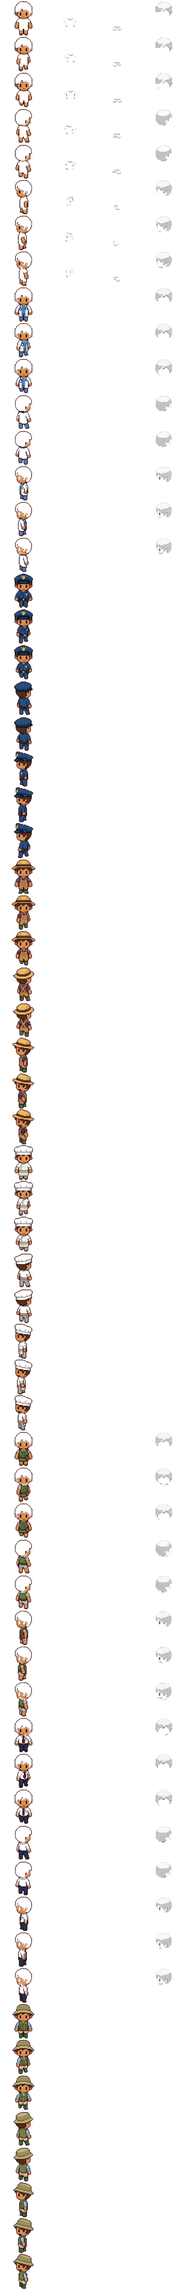
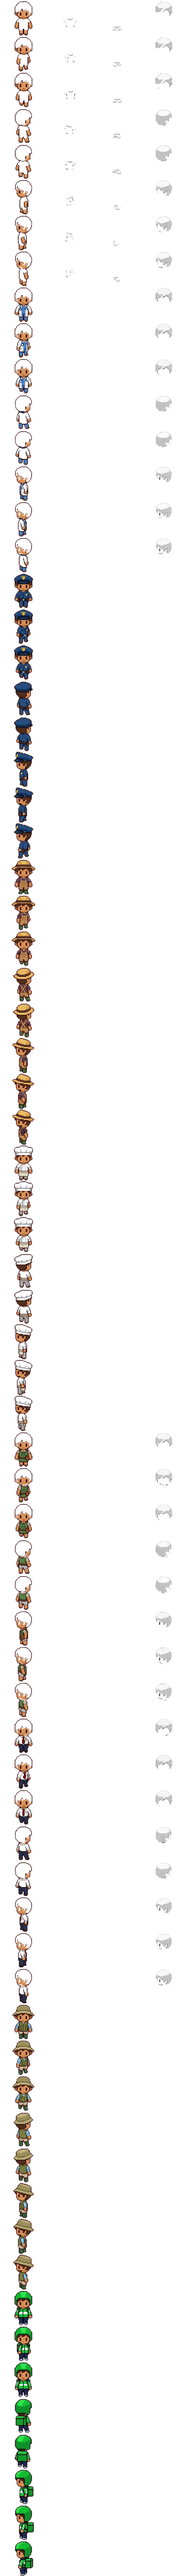
Rider outfit from the new pixel sheet; builder can mirror a cell
On this sheet some side cells face right and one front walk cell is three-quarter, so the
builder now accepts mirrored cells (negative index) and the rider uses straight front
frames and mirrored side frames that keep the delivery box behind.

Claude-Session: https://claude.ai/code/session_011vTRLcvJmqJKhBboYRSi88

Changed region(s): [[0.0595, 0.0, 0.1786, 1.0], [0.8333, 0.5625, 0.9226, 0.875], [0.8333, 0.0, 0.9226, 0.25]]

diff --git a/public/game.js b/public/game.js
@@ -64,7 +64,7 @@ function charFrame(frame, lk) {
   return c;
 }
 // draw one character with its feet at (fx, fy), k = scale per sprite pixel; view = front | side | back; step = walk step 0-3; faceLeft for the side view
-const CAREER_OUTFIT = { doctor: 'doctor', police: 'police', farmer: 'farmer', chef: 'chef', merchant: 'merchant', office: 'office', fisher: 'fisher' };
+const CAREER_OUTFIT = { doctor: 'doctor', police: 'police', farmer: 'farmer', chef: 'chef', merchant: 'merchant', office: 'office', fisher: 'fisher', rider: 'rider' };
 const WALK = { front: ['down0', 'down1', 'down0', 'down2'], back: ['up0', 'up1', 'up0', 'up1'], side: ['left0', 'left1', 'left0', 'left2'] };
 function drawCharTo(g, p, fx, fy, k, view, step, faceLeft) {
   // career outfits: doctors wear the white coat + scrubs sheet (only their hair colour is applied)

diff --git a/tools/build_pixel_chars.py b/tools/build_pixel_chars.py
@@ -20,9 +20,10 @@ SHEETS = {'base': ('tools/sheets/pixel_char.jpg', ('shirt', 'pants', 'hair')), '
           'chef': ('tools/sheets/pixel_chef.jpg', ()),
           'merchant': ('tools/sheets/pixel_merchant.jpg', ('hair',)),
           'office': ('tools/sheets/pixel_office.jpg', ('hair',)),
-          'fisher': ('tools/sheets/pixel_fisher.jpg', ())}
+          'fisher': ('tools/sheets/pixel_fisher.jpg', ()),
+          'rider': ('tools/sheets/pixel_rider.jpg', ())}
 # per-sheet frame overrides (some sheets put the poses in different cells)
-FRAME_FIX = {'police': {'left2': 6}, 'fisher': {'down2': 13}}
+FRAME_FIX = {'police': {'left2': 6}, 'fisher': {'down2': 13}, 'rider': {'down1': 10, 'down2': 15, 'left1': -7, 'left2': -17}}   # negative = use that cell mirrored
 TARGET_H = 96
 # which sheet frame (reading order, 0-19) is used for each direction / walk step; right = mirrored left
 FRAMES = {'down0': 0, 'down1': 16, 'down2': 18, 'up0': 14, 'up1': 19, 'left0': 5, 'left1': 7, 'left2': 17}
@@ -56,8 +57,10 @@ def load(src):
 
 OUTLINE = np.array([46, 14, 8])
 def split(k, tint):
+    flip = k < 0; k = abs(k)
     x, y, w, h, m = FR[k]
     sub = A[y:y + h, x:x + w].copy(); m = ndi.binary_fill_holes(m)
+    if flip: sub = sub[:, ::-1].copy(); m = m[:, ::-1].copy()
     r, g, b = sub[..., 0], sub[..., 1], sub[..., 2]
     # magenta-tinted rim pixels are outline blended with the background: make them outline
     tinted = m & (b > g + 25) & (r > g + 20)

diff --git a/README.md b/README.md
@@ -99,7 +99,7 @@ npm start          # http://localhost:3000
 บน Render เซิร์ฟเวอร์จะ ping ตัวเองทุก 9 นาที (ใช้ `RENDER_EXTERNAL_URL` ที่ Render ใส่ให้เอง หรือกำหนด `KEEPALIVE_URL` เอง) จึงไม่หลับตอนไม่มีคนเล่น
 
 ## กราฟิกตัวละครและหน้าจอ
-- ตัวละคร (พิกเซลอาร์ต): `tools/sheets/pixel_char.jpg` → `python3 tools/build_pixel_chars.py` → `public/assets/pchar.webp/json` · 8 เฟรม (หน้า 3, หลัง 2, ข้าง 3 กลับด้านเป็นขวา) แต่ละเฟรมแยก 4 ชั้น: ตัว / เสื้อ / กางเกง / ผม แล้วเกมย้อมสีตามที่ผู้เล่นเลือก · ชุดตามอาชีพ: แพทย์ใส่เสื้อกาวน์ + ชุดสครับ (`pixel_doctor.jpg`, ย้อมแค่สีผม), ตำรวจใส่เครื่องแบบ + หมวก (`pixel_police.jpg`), เกษตรกรใส่หมวกฟาง + เอี๊ยม + บู๊ท (`pixel_farmer.jpg`), เชฟใส่หมวกเชฟ + เสื้อเชฟ + ผ้ากันเปื้อน (`pixel_chef.jpg`), พ่อค้าใส่ผ้ากันเปื้อนเขียว + กระเป๋าคาดเอว (`pixel_merchant.jpg`, ย้อมสีผมได้), พนักงานบริษัทใส่เชิ้ตขาว + เนคไท + กางเกงสแล็ค (`pixel_office.jpg`, ย้อมสีผมได้), ชาวประมงใส่หมวกบักเก็ต + เสื้อกั๊ก + บู๊ท (`pixel_fisher.jpg`) เพิ่มชุดอาชีพอื่นได้ที่ `SHEETS` ใน build_pixel_chars.py · ผู้เล่นใหม่เลือกเพศและสีเสื้อ ผมเริ่มต้นเหมือนกันทุกคน (น้ำตาล) ย้อมผม/เปลี่ยนเสื้อ/กางเกงได้ที่ร้านแฟชั่น & ทำผม · ชาวเมือง NPC 12 คนเดินไปมาในเมือง
+- ตัวละคร (พิกเซลอาร์ต): `tools/sheets/pixel_char.jpg` → `python3 tools/build_pixel_chars.py` → `public/assets/pchar.webp/json` · 8 เฟรม (หน้า 3, หลัง 2, ข้าง 3 กลับด้านเป็นขวา) แต่ละเฟรมแยก 4 ชั้น: ตัว / เสื้อ / กางเกง / ผม แล้วเกมย้อมสีตามที่ผู้เล่นเลือก · ชุดตามอาชีพ: แพทย์ใส่เสื้อกาวน์ + ชุดสครับ (`pixel_doctor.jpg`, ย้อมแค่สีผม), ตำรวจใส่เครื่องแบบ + หมวก (`pixel_police.jpg`), เกษตรกรใส่หมวกฟาง + เอี๊ยม + บู๊ท (`pixel_farmer.jpg`), เชฟใส่หมวกเชฟ + เสื้อเชฟ + ผ้ากันเปื้อน (`pixel_chef.jpg`), พ่อค้าใส่ผ้ากันเปื้อนเขียว + กระเป๋าคาดเอว (`pixel_merchant.jpg`, ย้อมสีผมได้), พนักงานบริษัทใส่เชิ้ตขาว + เนคไท + กางเกงสแล็ค (`pixel_office.jpg`, ย้อมสีผมได้), ชาวประมงใส่หมวกบักเก็ต + เสื้อกั๊ก + บู๊ท (`pixel_fisher.jpg`), ไรเดอร์ใส่หมวกกันน็อก + แจ็คเก็ตเขียว + กล่องส่งอาหาร (`pixel_rider.jpg`) เพิ่มชุดอาชีพอื่นได้ที่ `SHEETS` ใน build_pixel_chars.py · ผู้เล่นใหม่เลือกเพศและสีเสื้อ ผมเริ่มต้นเหมือนกันทุกคน (น้ำตาล) ย้อมผม/เปลี่ยนเสื้อ/กางเกงได้ที่ร้านแฟชั่น & ทำผม · ชาวเมือง NPC 12 คนเดินไปมาในเมือง
 - หน้าจอ/เมนู: `tools/sheets/ui.jpg` → `python3 tools/build_ui.py` → `public/assets/ui/*.png` (กระดาษหนังสัตว์ ปุ่มไอคอน รูปหน้าตัวละคร ไอคอนสถานะ) ธีมไม้ + กระดาษ อยู่ใน `public/style.css`
 
 ## กราฟิก
